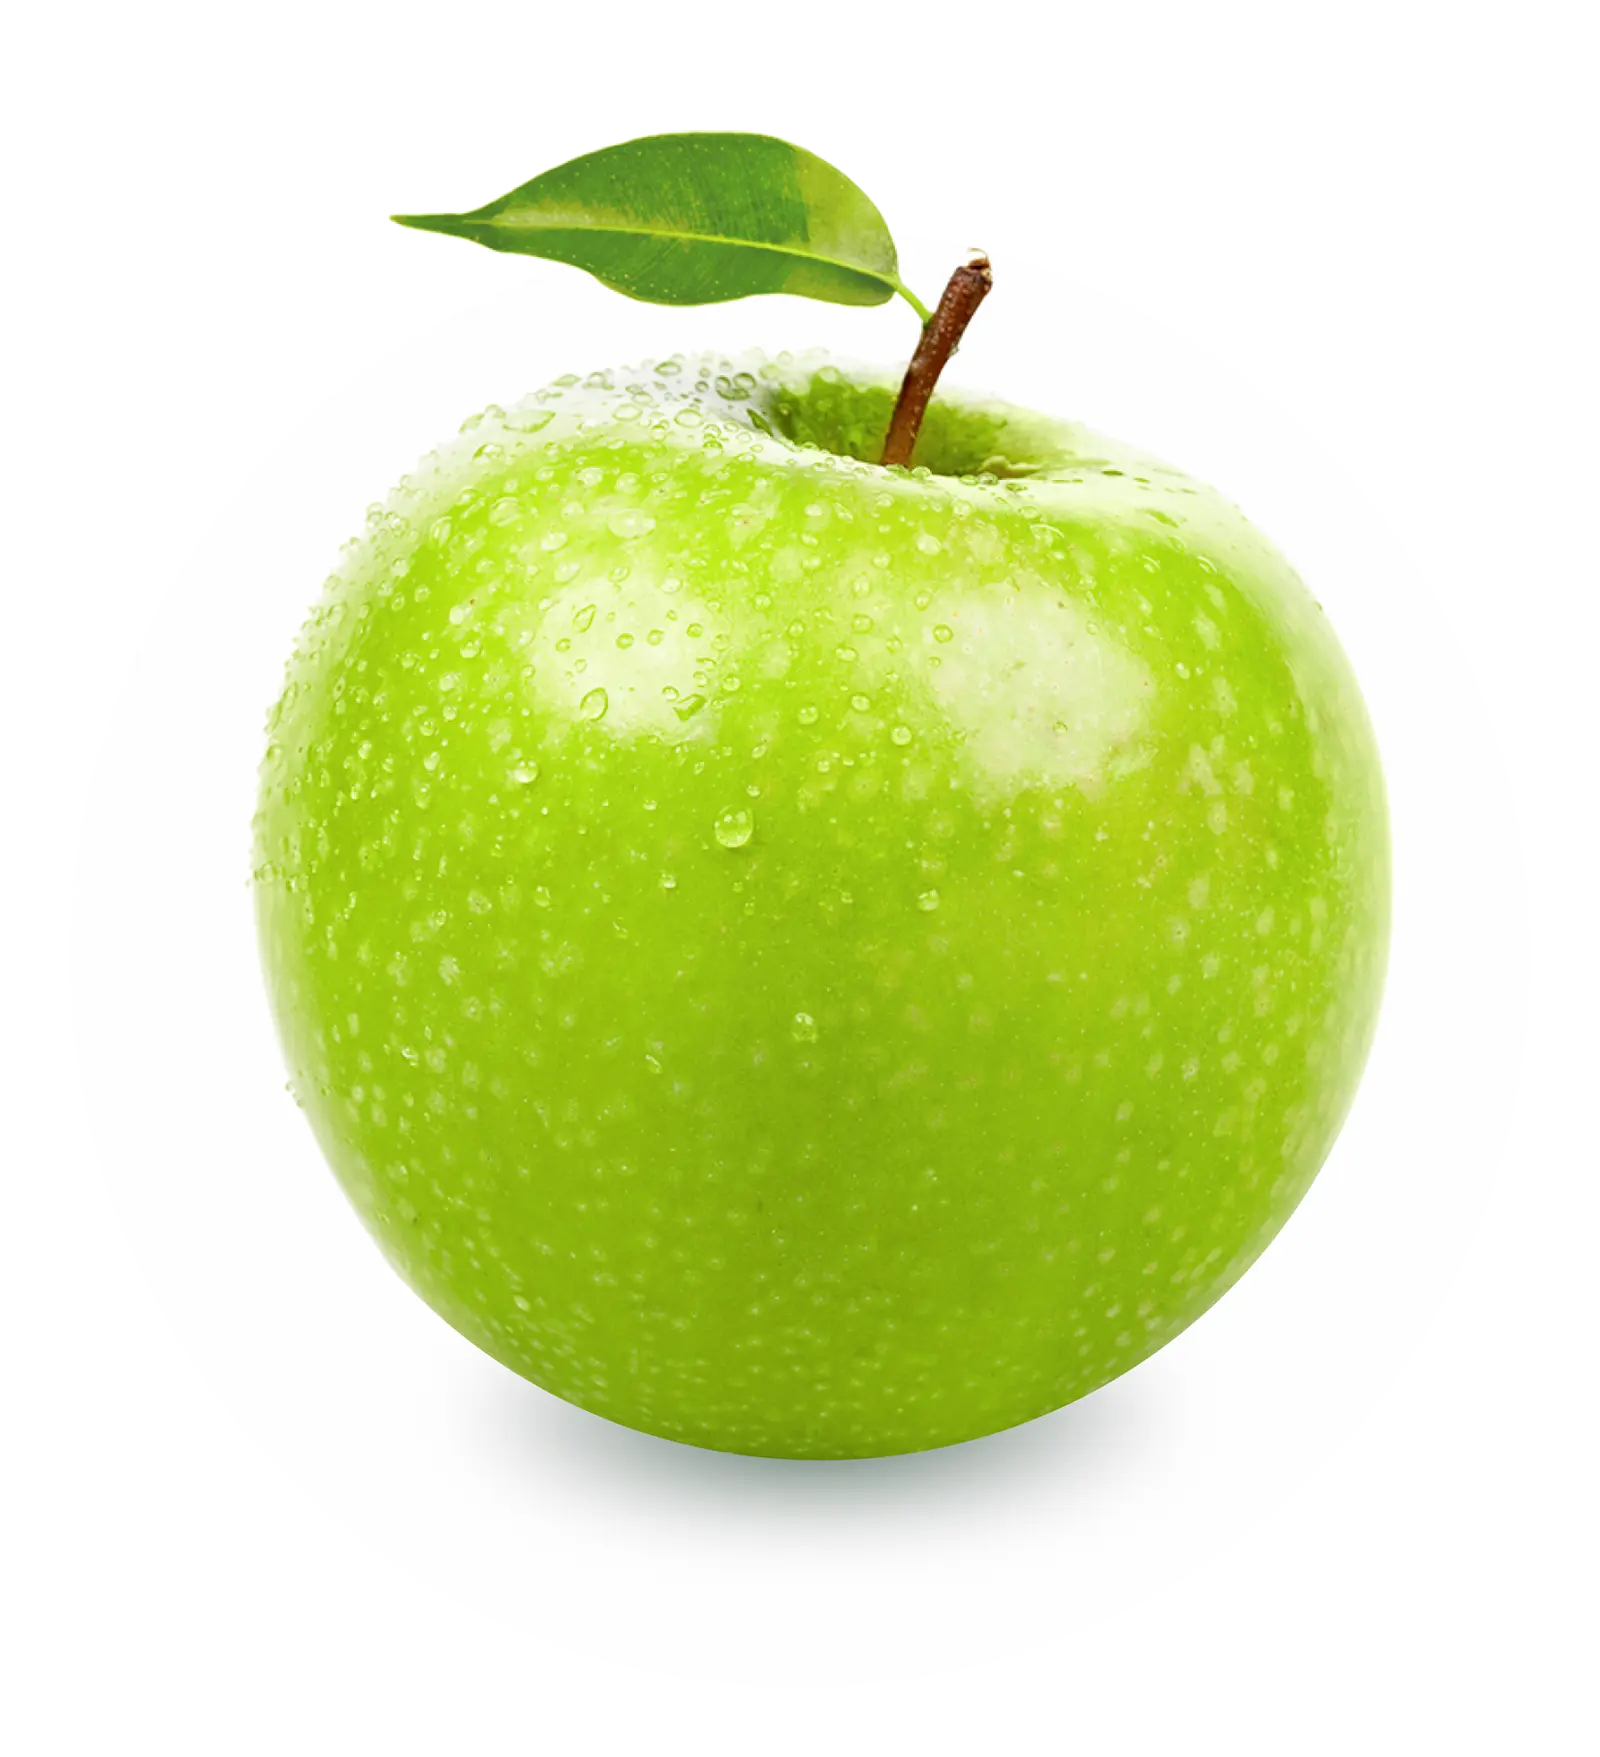
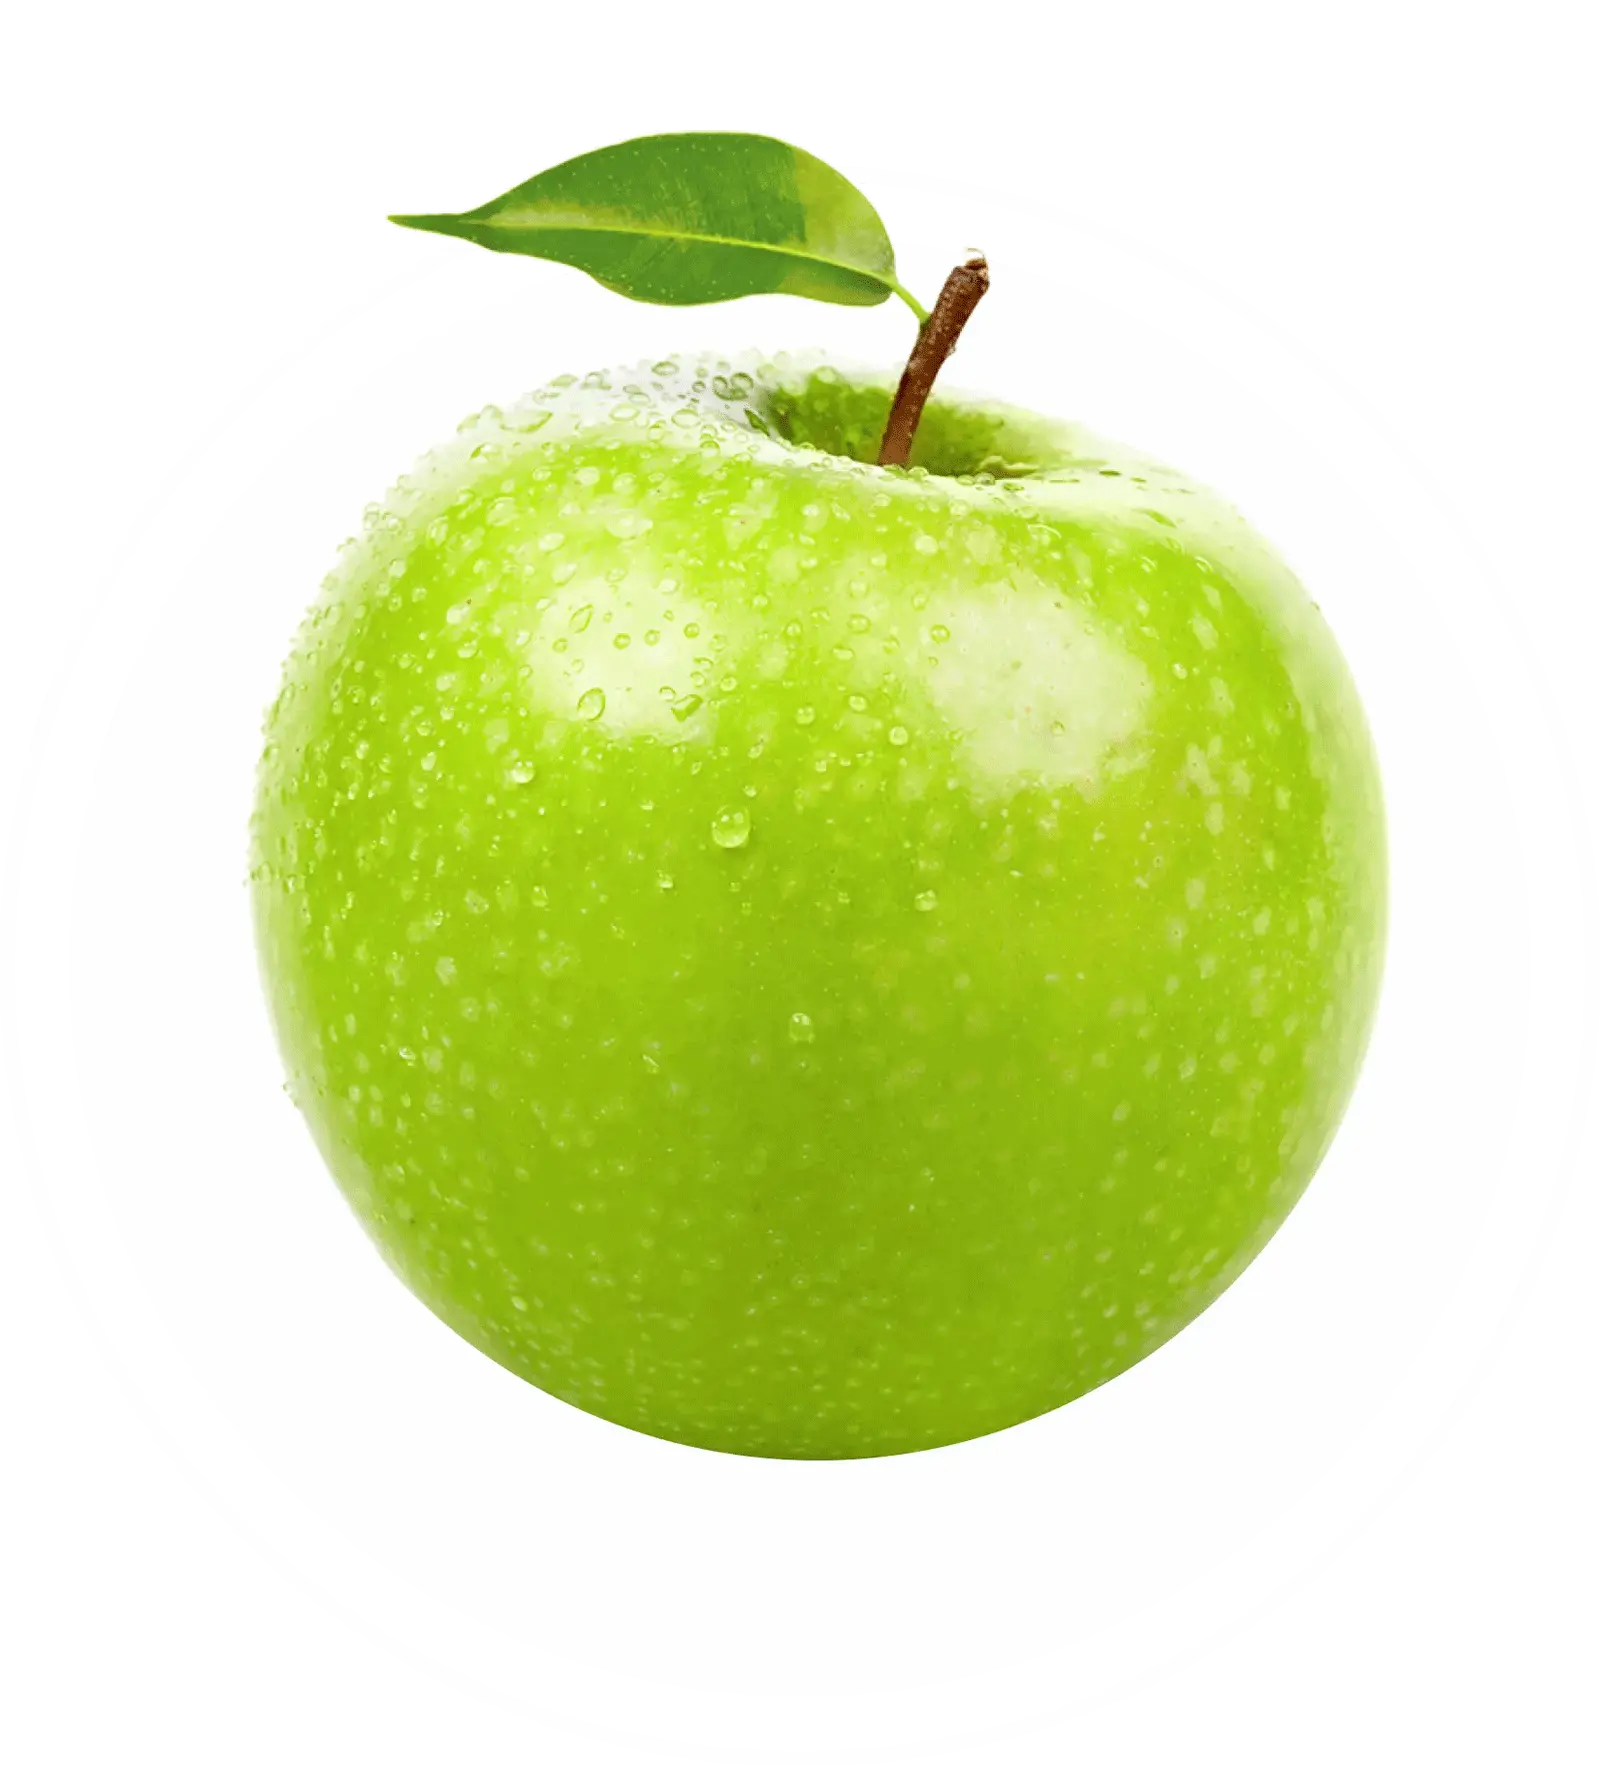
apple

diff --git a/index.html b/index.html
@@ -104,14 +104,10 @@
       <section class="offering">
         <div class="offering-container">
           <div class="offering__picture offering__picture--mob">
-             <img src="./images/fruits/apple-1600.png" 
+             <img src="./images/fruits/apple-1600.webp" 
              alt="apple"
              width="100%">
-            <img
-                src="./images/fruits/apple-320.png"
-                alt="apple"
-                width="100%"
-              />
+            
             <!-- <picture>
       
               <source
